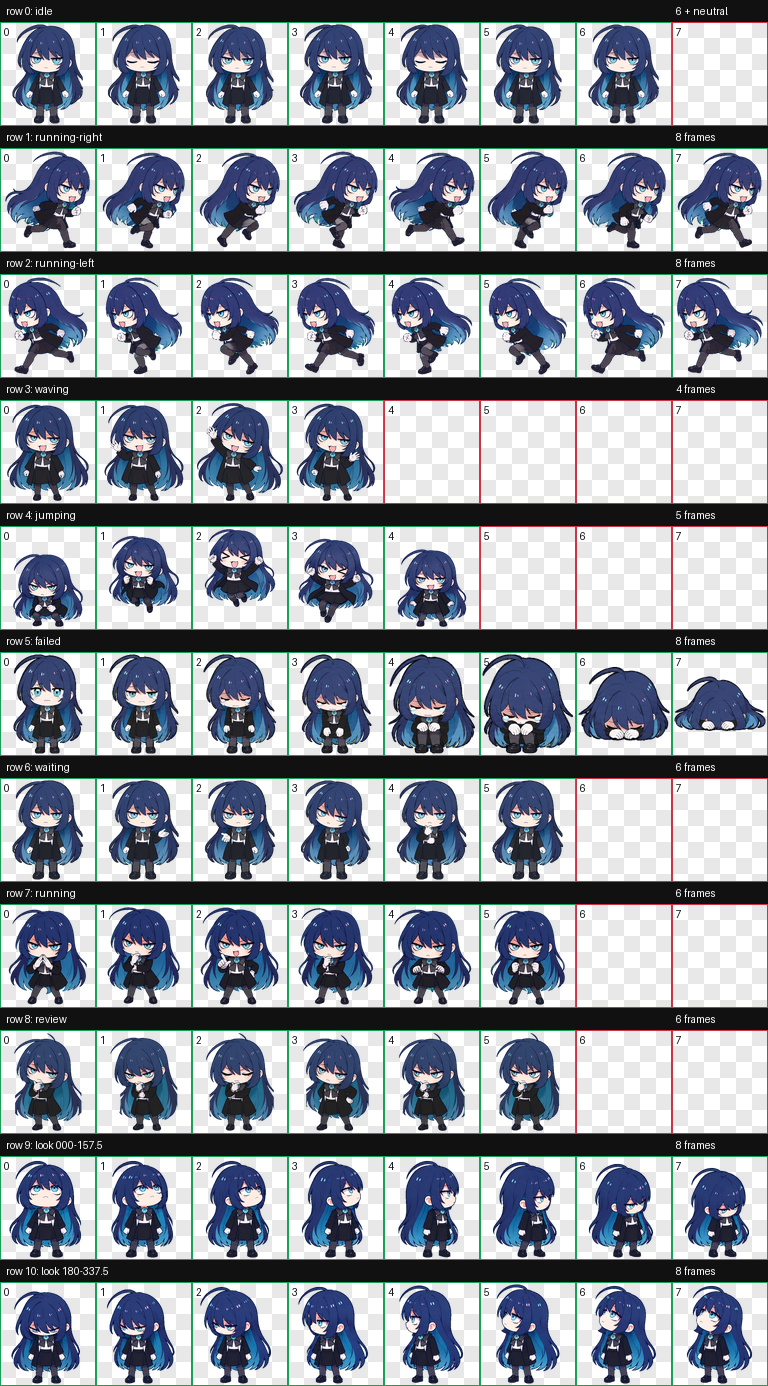
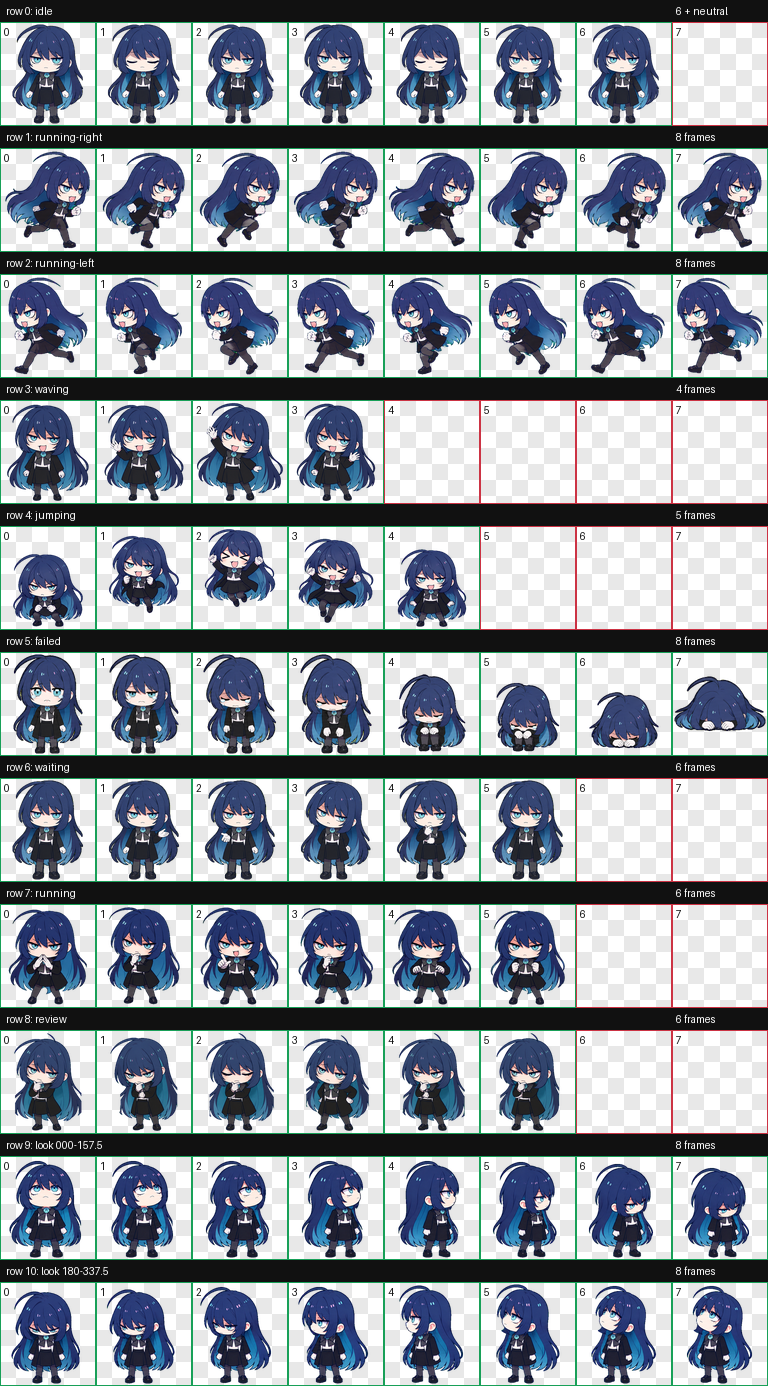
Normalize failed crouch scale

Changed region(s): [[0.5, 0.4654, 0.875, 0.5584]]

diff --git a/README.md b/README.md
@@ -97,7 +97,7 @@ python scripts/validate_package.py
 
 ## Release
 
-The `v1.0.3` GitHub release contains an install-only ZIP. Extract its `ado` directory into the Codex `pets` directory, or use one of the repository installers above. This release regenerates the complete `idle`, `failed`, and `waiting` rows with isolated poses and safe gutters, removes green-key spill from preserved artwork, and renders every README GIF directly from the packaged atlas. Validation now compares every standard cell and GIF against visually approved full-cell silhouettes, so connected as well as detached neighboring-pose bleed is rejected.
+The `v1.0.4` GitHub release contains an install-only ZIP. Extract its `ado` directory into the Codex `pets` directory, or use one of the repository installers above. It preserves the clean isolated artwork from v1.0.3 while correcting the `failed` animation's middle crouching poses: frames 5–7 now retain the coherent source strip's stable scale instead of being independently enlarged to fill their cells. The first four poses, final face-down pose, and every other atlas cell remain unchanged.
 
 ## Rights and reuse
 

diff --git a/CHANGELOG.md b/CHANGELOG.md
@@ -1,5 +1,11 @@
 # Changelog
 
+## v1.0.4
+
+- Corrected unintended growth in the three middle crouching poses of the `failed` animation by using stable-slot extraction from the same coherent generated row.
+- Preserved the first four failed poses, final face-down pose, and every other atlas cell byte-for-byte.
+- Regenerated the failed GIF and full contact sheet, then passed deterministic validation and independent playback review across both affected transitions.
+
 ## v1.0.3
 
 - Regenerated the complete `idle`, `failed`, and `waiting` rows with separated poses, visible gutters, and safe cell margins instead of attempting to mask contaminated cells.
